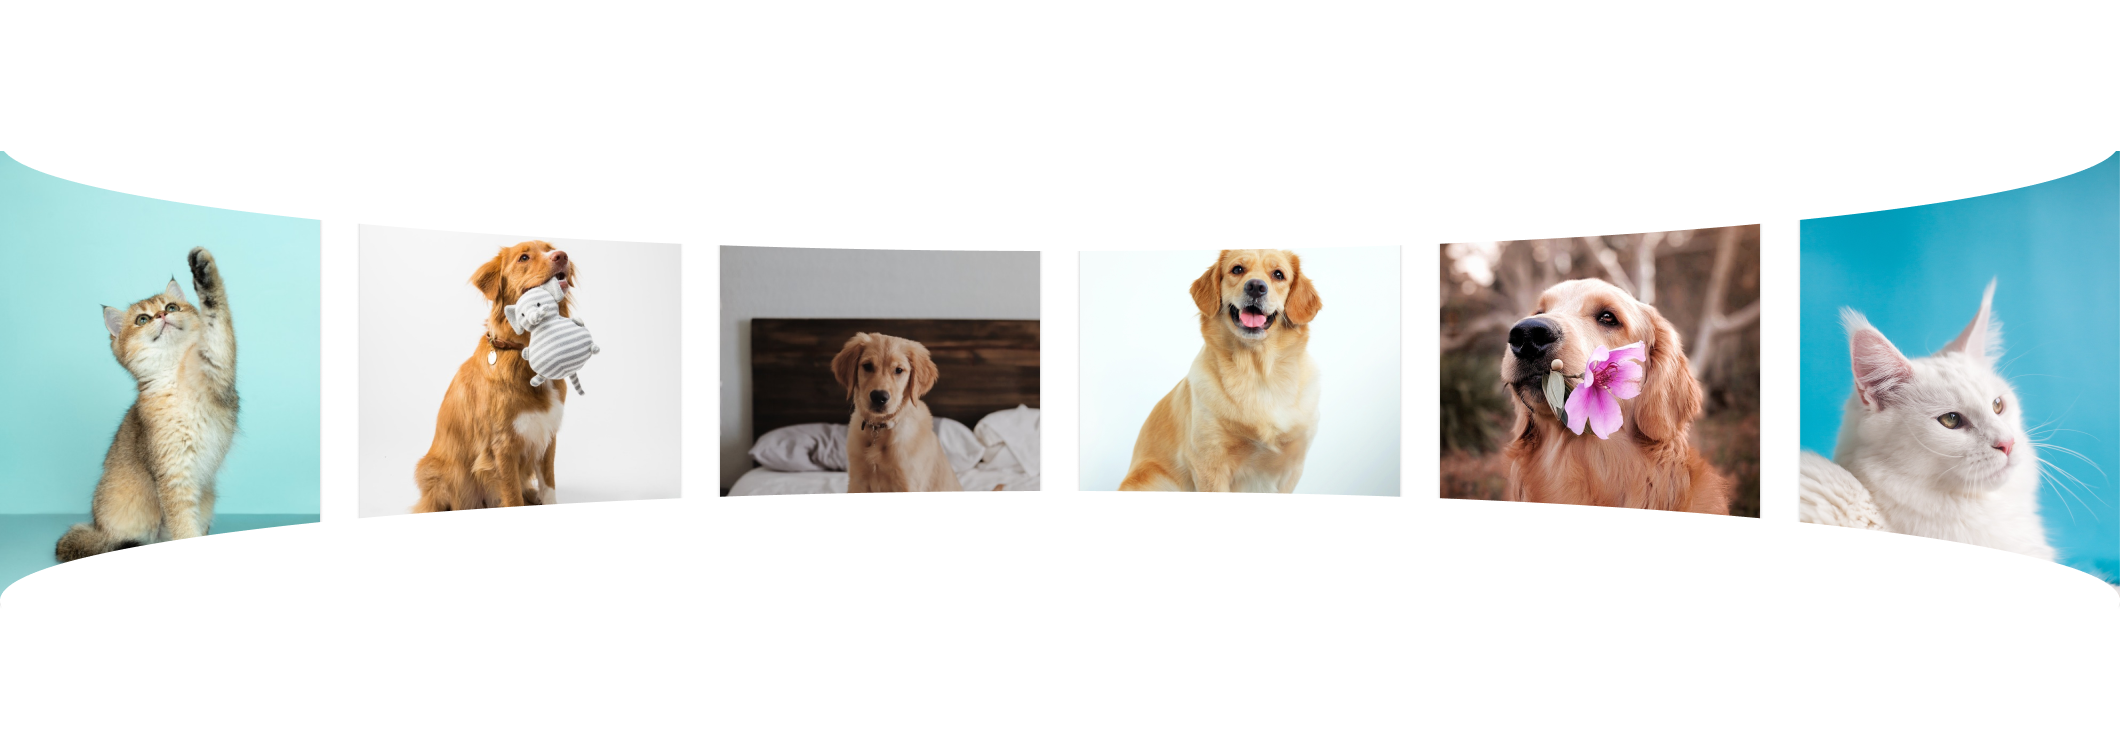
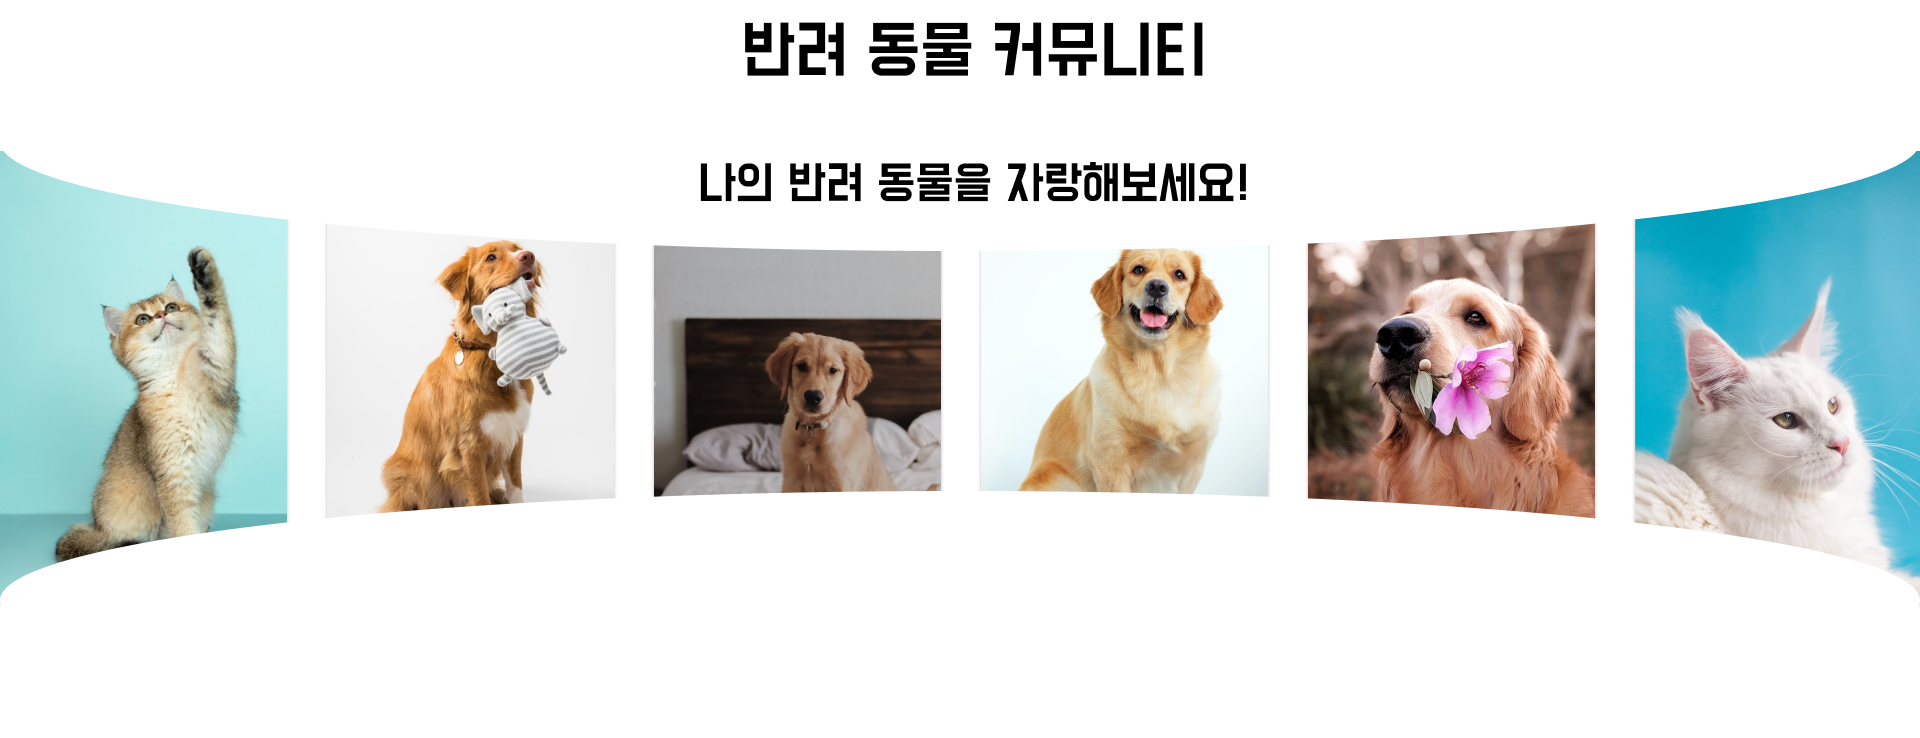
refactor: 메인페이지 수정

diff --git a/src/views/IntroPage.vue b/src/views/IntroPage.vue
@@ -30,7 +30,12 @@
         <!--        <p class="slide-upper-text">나의 반려 동물을 자랑해보세요!</p>-->
         <img src="@/assets/images/vet.png" class="pets-1" alt="">
         <hr class="hr-15">
+        <img src="@/assets/images/consult.png" class="pets-3" alt="">
+        <hr class="hr-15">
         <img src="@/assets/images/pets2.png" class="pets-2" alt="">
+        <hr class="hr-15">
+        <img src="@/assets/images/outro.png" class="pets-4" alt="">
+
 
         <div align="center" class="content-image">
             <!--            <v-img :src="'@/assets/images/dog1.png'"></v-img>-->
@@ -100,7 +105,7 @@ export default {
     text-transform: uppercase;
     color: #222;
     letter-spacing: 1px;
-    font-family: "a타이틀고딕2", serif;
+    font-family: "a타이틀고딕4", serif;
     font-weight: 400;
 }
 
@@ -220,14 +225,26 @@ hr.hr-15:after {
 
 .pets-1 {
     max-width: 1200px;
-
     margin: 10px auto 10px;
     display: flex;
+
 }.pets-2 {
     max-width: 1200px;
+
     margin: 40px auto 50px;
     display: flex;
 }
+.pets-3 {
+    max-width: 1200px;
+
+    margin: 40px auto 50px;
+    display: flex;
+}
+.pets-4 {
+     max-width: 1200px;
+     margin: 40px auto 80px;
+     display: flex;
+ }
 
 footer {
     height: 110px;
